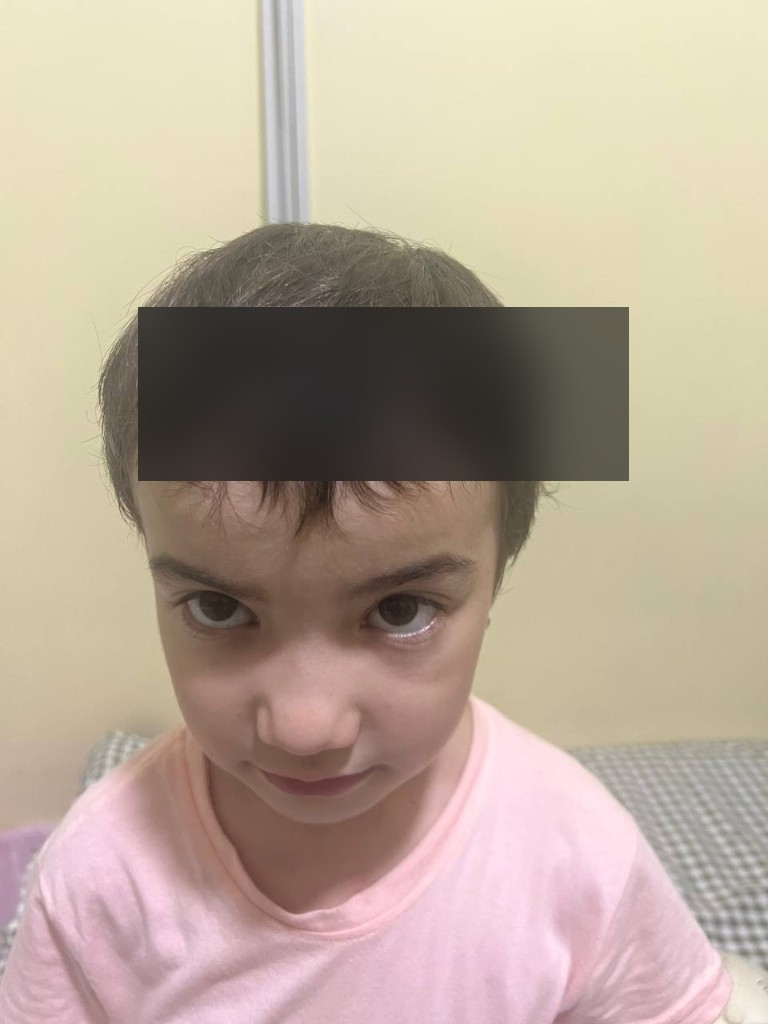
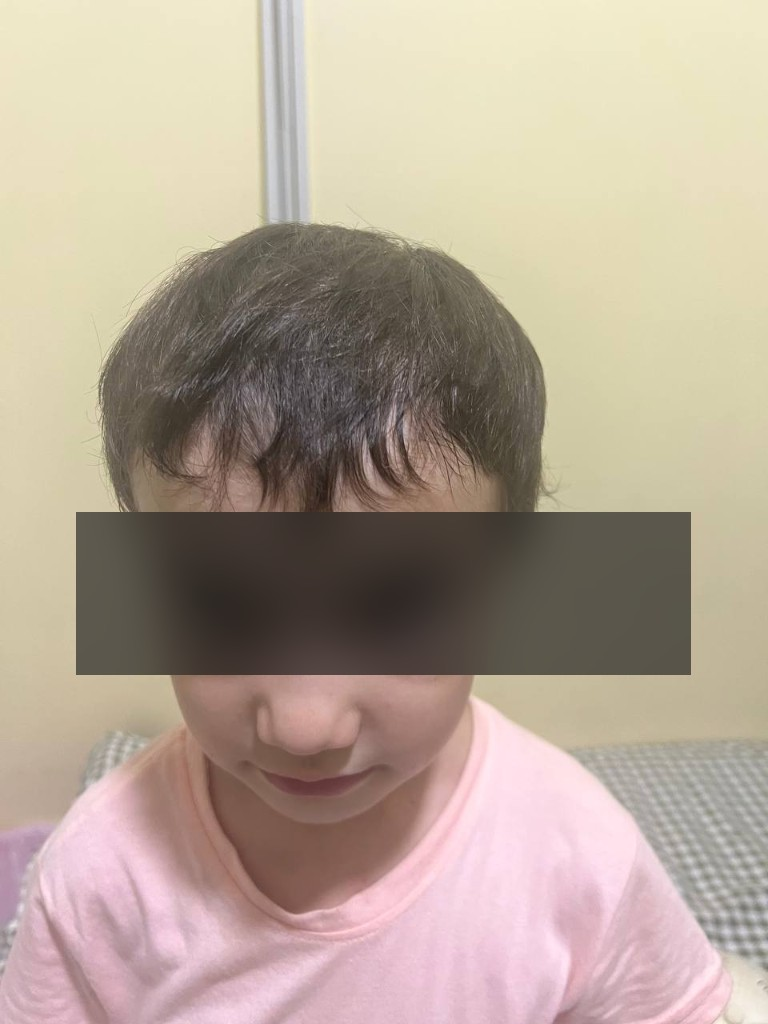
Fix eye mask placement on pediatric alopecia after photo.
Lower the privacy bar on child after image so eyes are fully covered.

Changed region(s): [[0.1562, 0.2812, 0.8438, 0.4688], [0.0938, 0.5, 0.9062, 0.6562]]

diff --git a/scripts/maskPediatricResultEyes.py b/scripts/maskPediatricResultEyes.py
@@ -11,7 +11,7 @@ ROOT = Path(__file__).resolve().parents[1] / "public" / "results"
 # Normalized (x1, y1, x2, y2) — rasm o'lchamining ulushi
 EYE_MASKS: dict[str, tuple[float, float, float, float]] = {
     "alopecia-areata-child-before.jpg": (0.16, 0.34, 0.84, 0.51),
-    "alopecia-areata-child-after.jpg": (0.18, 0.30, 0.82, 0.47),
+    "alopecia-areata-child-after.jpg": (0.10, 0.50, 0.90, 0.66),
     "alopecia-areata-child-step-2.jpg": (0.22, 0.76, 0.78, 0.93),
     "alopecia-areata-boy-before.jpg": (0.48, 0.38, 0.99, 0.55),
     "alopecia-areata-boy-after.jpg": (0.42, 0.36, 0.98, 0.53),
@@ -44,7 +44,16 @@ def apply_eye_mask(path: Path, region_norm: tuple[float, float, float, float]) -
 
 
 def main() -> None:
-    for filename, region in EYE_MASKS.items():
+    import sys
+
+    only = sys.argv[1:] if len(sys.argv) > 1 else None
+    targets = (
+        {name: EYE_MASKS[name] for name in only if name in EYE_MASKS}
+        if only
+        else EYE_MASKS
+    )
+
+    for filename, region in targets.items():
         path = ROOT / filename
         if not path.exists():
             print(f"Skip missing: {path}")
